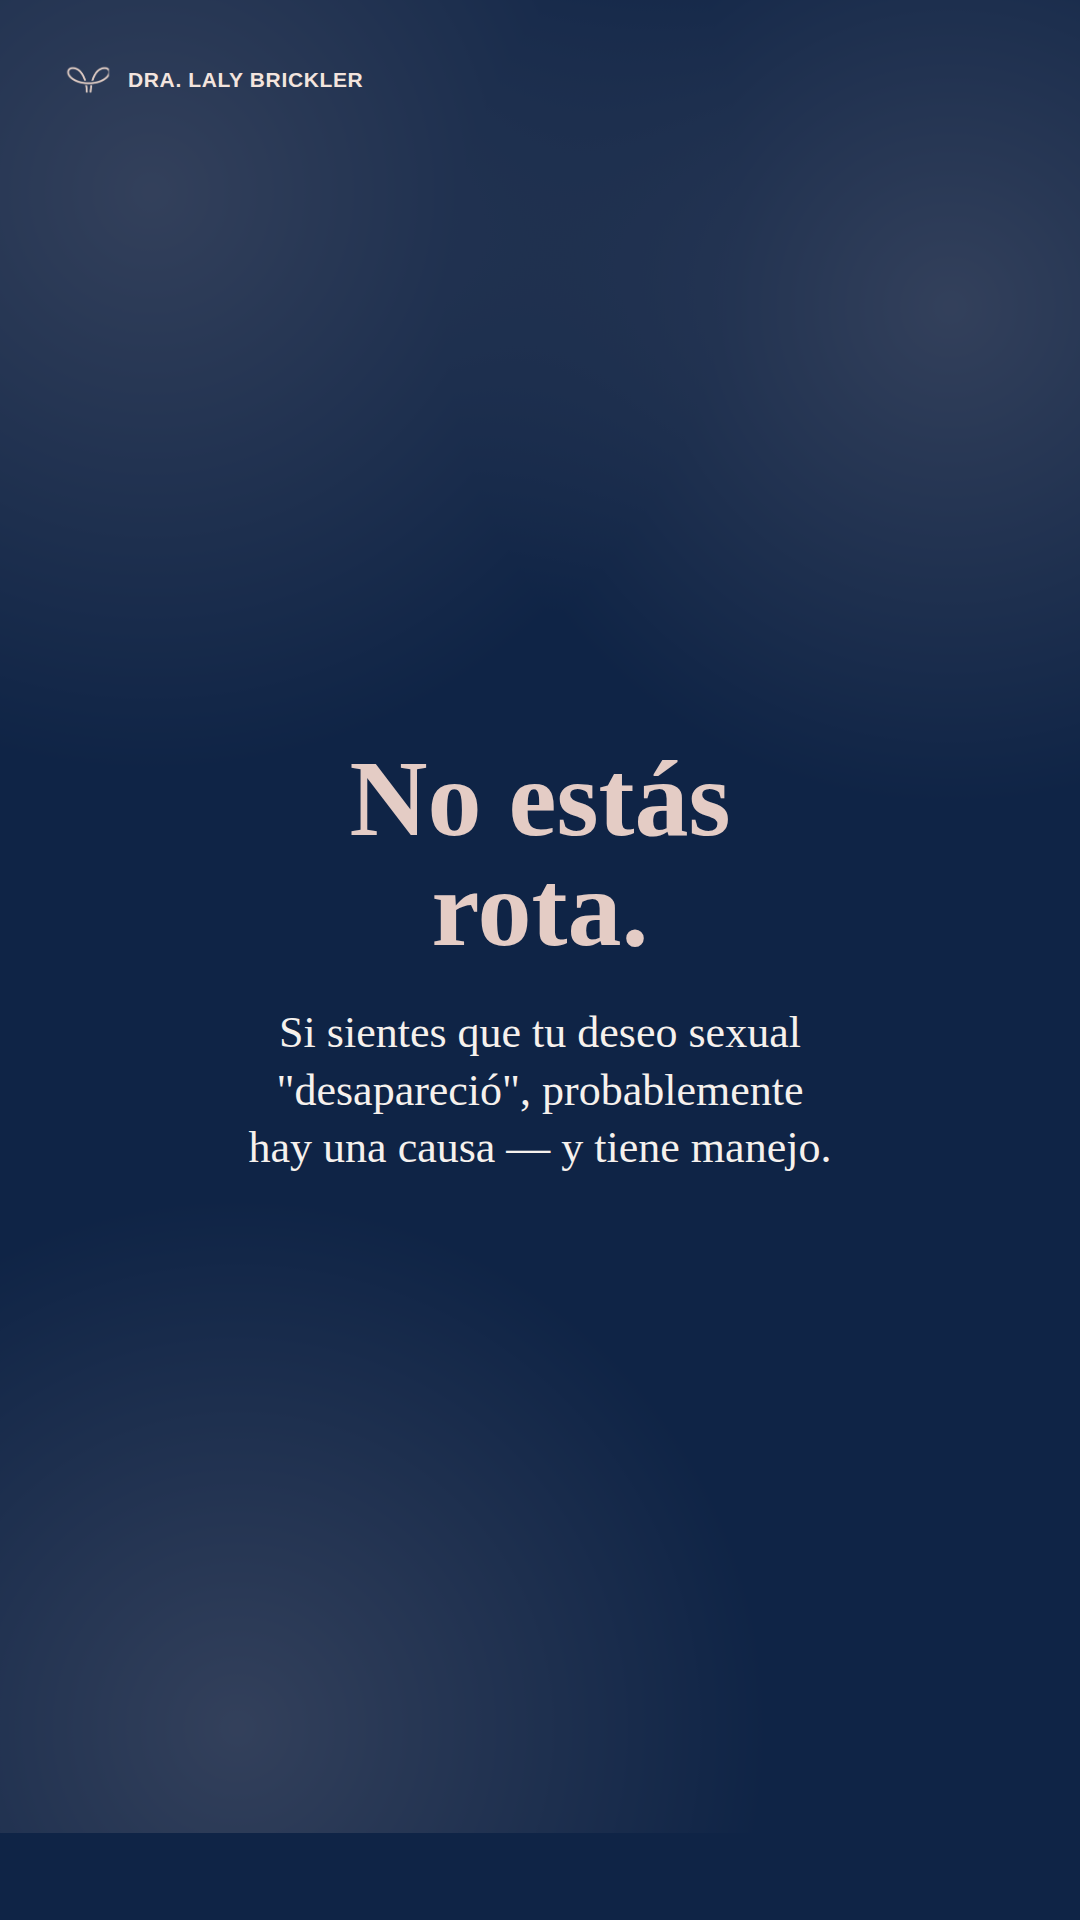
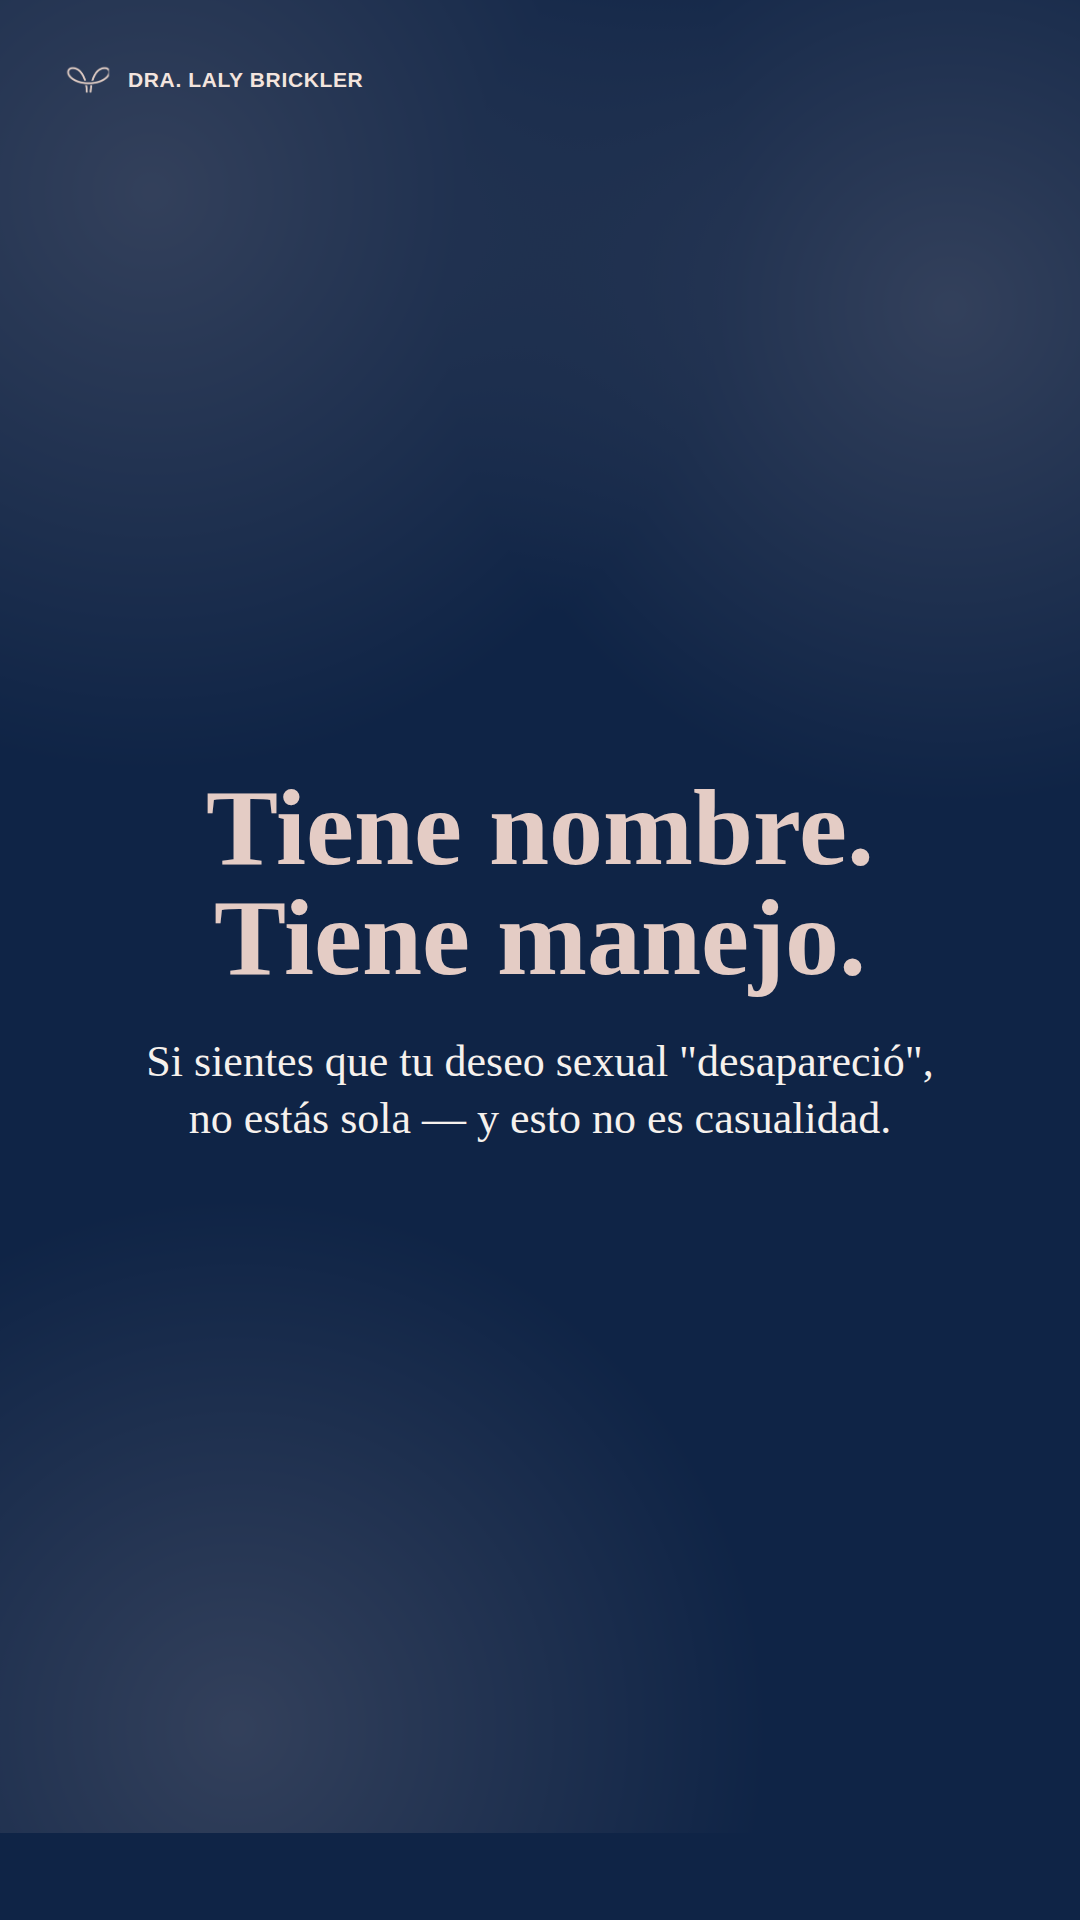
Replace "no estás rota" headline with "Tiene nombre. Tiene manejo."
Claude-Session: https://claude.ai/code/session_01LtTLwZrPZbyahK5aD18j7d

Changed region(s): [[0.1222, 0.375, 0.8556, 0.625]]

diff --git a/assets/export-libido/slide-1-hook.html b/assets/export-libido/slide-1-hook.html
@@ -16,7 +16,7 @@ html,body{width:1080px;height:1920px;overflow:hidden;background:#0F2446;font-fam
 .brand img{width:48px;height:auto;display:block}
 .brand span{font-size:21px;color:#F3E4DE;letter-spacing:.03em;font-weight:600}
 .body{position:absolute;inset:0;display:flex;flex-direction:column;justify-content:center;align-items:center;padding:0 90px;text-align:center}
-.not-broken{font-family:'Fraunces',Georgia,serif;font-weight:600;color:#E4CCC5;font-size:108px;line-height:1.02;margin-bottom:40px}
+.headline{font-family:'Fraunces',Georgia,serif;font-weight:600;color:#E4CCC5;font-size:108px;line-height:1.02;margin-bottom:40px}
 .sub{font-family:'Fraunces',Georgia,serif;font-weight:500;color:#F6F1ED;font-size:44px;line-height:1.3;max-width:840px;text-wrap:balance}
 </style></head>
 <body>
@@ -24,8 +24,8 @@ html,body{width:1080px;height:1920px;overflow:hidden;background:#0F2446;font-fam
   <div class="loop-field"></div>
   <div class="brand"><img src="icon.png" alt=""><span>DRA. LALY BRICKLER</span></div>
   <div class="body">
-    <p class="not-broken">No estás<br>rota.</p>
-    <p class="sub">Si sientes que tu deseo sexual "desapareció", probablemente hay una causa — y tiene manejo.</p>
+    <p class="headline">Tiene nombre.<br>Tiene manejo.</p>
+    <p class="sub">Si sientes que tu deseo sexual "desapareció", no estás sola — y esto no es casualidad.</p>
   </div>
 </div>
 </body></html>

diff --git a/reels/deseo-sexual-sin-pena.md b/reels/deseo-sexual-sin-pena.md
@@ -6,10 +6,10 @@ Paleta de marca: Azul navy (#0F2446) + Palo rosa (#E4CCC5) + Hueso (#F6F1ED)
 
 ## 1. Gancho (0–4 seg)
 **Texto en pantalla:**
-> No estás rota.
+> Tiene nombre. Tiene manejo.
 
 **Locución:**
-> "Si sientes que tu deseo sexual 'desapareció', no estás rota — probablemente hay una causa, y tiene manejo."
+> "Si sientes que tu deseo sexual 'desapareció', no estás sola — y esto no es casualidad. Tiene nombre, y tiene manejo."
 
 **Visual sugerido:** Primer plano a cámara, tono cercano y directo — sin sonreír de más, esto se dice en serio. Fondo navy de marca.
 
@@ -58,7 +58,7 @@ Audio en tendencia, tono íntimo/conversacional — nada de ritmo "divertido" o 
 
 ## Caption para el post
 
-Si sientes que tu deseo sexual "desapareció", no estás rota. 🩷
+Si sientes que tu deseo sexual "desapareció", no estás sola. 🩷
 
 La libido cambia con los anticonceptivos hormonales, después del parto, con el estrés y con la edad — son causas médicas reales, no un defecto tuyo.
 
